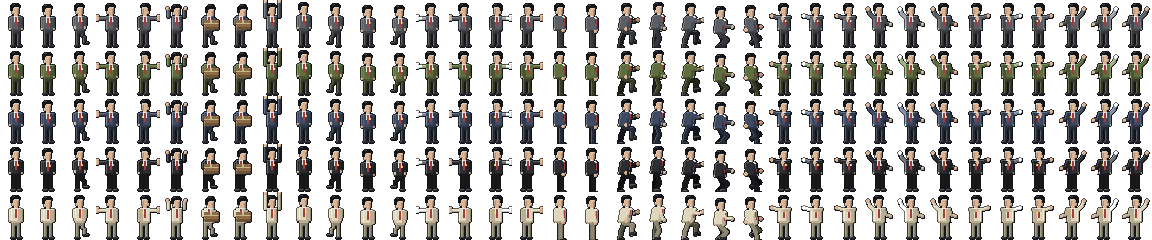
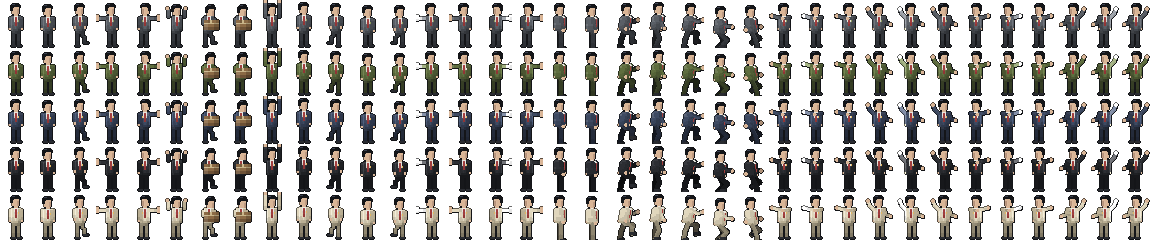
Unity 판: 테두리 대신 덩어리 명암, 의자는 두 칸씩 튀며 곧게 굴러 내려오고 앞에 칸이 없으면 계단 밖으로 떨어짐 (웹과 같게)
- 확인: EditMode 14개 통과, 플레이테스트 스크린샷 43장 오류 0, 실행 파일·zip 다시 만듦

diff --git a/WebReference/game.js b/WebReference/game.js
@@ -1599,20 +1599,31 @@ function drawChair(x, y, rot) {   // 사무실 의자: 남색 등받이·앉는 
   rect(-1, 0, 2, 4, '#9AA0A8'); rect(-5, 4, 10, 1, '#2A2C31'); rect(-5, 5, 2, 2, '#1E1F22'); rect(3, 5, 2, 2, '#1E1F22');
   ctx.restore();
 }
-function drawRollingChair(p, px) {   // 굴러오는 의자: 위 계단 칸들을 따라 한 칸씩 통통 튀며 굴러 내려온다 (칸 윗면 위).
-  // 넘어가는 의자는 바로 윗칸에서 크게 튀어 내 머리 위를 넘어 뒤쪽으로, 계단 아래로 계속 굴러 떨어진다
+function drawRollingChair(p, px) {   // 굴러오는 의자: 방향을 바꾸지 않고 지금 계단 줄을 따라 곧게 두 칸씩 튀며 굴러 내려온다.
+  // 위쪽에 이어진 칸이 짧으면 그 위 층참에서 날아 떨어져 들어오고, 넘어가는 의자는 머리 위를 넘어 같은 방향으로 가다가 앞에 칸이 없으면 계단 밖으로 떨어진다
   const r = run, s = p.side;
   if (r.time < p.spawnT) return;
   const u = clamp((r.time - p.spawnT) / Math.max(0.01, p.impactT - p.spawnT), 0, 1);
-  const onTile = function (fi) { const i = Math.floor(fi), f = fi - i; return [160 + (lerp(stairX(i), stairX(i + 1), f) - r.camX), PLAYER_Y + (-fi * CONFIG.stepH - r.camY) - 7]; };   // 바퀴가 칸 윗면에 닿는 자리
+  const dx = Math.abs(stairX(r.steps + 1) - stairX(r.steps)) || CONFIG.stepW;
+  const line = function (j) { return [160 + (stairX(r.steps) + s * j * dx - r.camX), PLAYER_Y + (-(r.steps + j) * CONFIG.stepH - r.camY) - 7]; };   // 내 칸에서 j칸 위(음수면 아래) 같은 줄, 바퀴가 칸 윗면에 닿는 자리
+  let up = 0; while (up < 5 && dirAt(r.steps + up) === s) up++;            // 위로 같은 방향으로 이어진 칸 수
+  let down = 0; while (down < 8 && r.steps - 1 - down >= 0 && dirAt(r.steps - 1 - down) === s) down++;   // 아래로 이어진 칸 수
+  const roll = function (j, j0) {                                          // 칸 위면 두 칸씩 튀고, 칸이 없는 높이(층참 위)에서는 날아 떨어진다
+    const q = line(j);
+    if (j > up) return [q[0], q[1] - (j - up) * 7];
+    const g = (j0 - j) / 2; return [q[0], q[1] - Math.sin((g - Math.floor(g)) * Math.PI) * 9];
+  };
   let x, y;
   if (p.over && (u > 0.8 || p.passed)) {
-    const a0 = onTile(r.steps + 1.2), bx = px - s * 28, by = PLAYER_Y + 4;                // 바로 윗칸에서 내 머리 위를 넘어 뒤쪽으로
-    if (r.time < p.impactT) { const v = (u - 0.8) / 0.2; x = lerp(a0[0], bx, v); y = lerp(a0[1], by, v) - Math.sin(v * Math.PI) * 38; }
-    else { const e = r.time - p.impactT; x = bx - s * 60 * e; y = by + 25 * e + 140 * e * e; }   // 계단 아래로 계속 굴러 떨어진다
+    const a0 = roll(1.2, 5), b0 = line(-2);
+    if (r.time < p.impactT) { const v = (u - 0.8) / 0.2; x = lerp(a0[0], b0[0], v); y = lerp(a0[1], b0[1], v) - Math.sin(v * Math.PI) * 38; }   // 머리 위를 넘는다
+    else {
+      const e = r.time - p.impactT, j = -2 - e * 6;
+      if (-j <= down) { const g = (-2 - j) / 2, q = line(j); x = q[0]; y = q[1] - Math.sin((g - Math.floor(g)) * Math.PI) * 9; }   // 아래 칸들을 같은 방향으로
+      else { const edge = -Math.max(2, down), te = e - Math.max(0, (Math.max(2, down) - 2) / 6), q = line(edge); x = q[0] - s * dx * 6 * te; y = q[1] - 6 * te + 300 * te * te; }   // 앞에 칸이 없다: 계단 밖으로 떨어진다
+    }
   } else {
-    const fi = lerp(r.steps + 5, p.over ? r.steps + 1.2 : r.steps + 0.35, p.over ? u / 0.8 : u), q = onTile(fi);
-    x = q[0]; y = q[1] - Math.abs(Math.sin((fi - Math.floor(fi)) * Math.PI)) * 5;          // 칸 모서리마다 튄다
+    const j = lerp(5, p.over ? 1.2 : 0.35, p.over ? u / 0.8 : u), q = roll(j, 5); x = q[0]; y = q[1];
   }
   drawChair(x, y, -s * (r.time - p.spawnT) * 9);
   if (r.time >= p.spawnT && showMarks() && !p.passed) {

diff --git a/Tools~/upgrade16.py b/Tools~/upgrade16.py
@@ -1,5 +1,5 @@
 """16비트 느낌으로 다듬기: 스프라이트 시트의 프레임마다 (빛은 왼쪽 위에서)
-- 밝은 쪽 가장자리 하이라이트, 어두운 쪽 가장자리 그림자 (두께 2픽셀 이상인 곳만, 눈·넥타이 같은 작은 것은 그대로)
+- 덩어리 명암: 같은 색 가로줄마다 밝은 띠·기본·그림자·깊은 그림자 (원통처럼), 세로로 긴 덩어리는 아래쪽 그늘. 작은 것(3픽셀 미만)은 그대로
 - 셀아웃: 밝은 쪽 외곽선을 검정 대신 옆 색의 어두운 색으로
 - 머리카락 윤기
 사용: python upgrade16.py <원본 assets> <출력 assets> [sprite id ...]  (원본은 고치지 않는다 — 두 번 걸리지 않게)"""
@@ -10,43 +10,77 @@ src, dst = sys.argv[1], sys.argv[2]
 ids = sys.argv[3:] or ['player', 'rival', 'staff', 'commuter', 'projectiles', 'sticky', 'props', 'stairs']
 d = json.load(open(f"{src}/sprite_definition.json", encoding='utf-8'))
 
-def cell16(f):
+SKINS = {(0xd9, 0xb5, 0x96), (0xb8, 0x93, 0x7a)}
+def tone(c, k):   # k > 1: 흰색 쪽으로 밝게, k < 1: 어둡게
+    c = c.astype(float)
+    return c + (255 - c) * (k - 1) if k > 1 else c * k
+def cell16(f, per_color=True, amp=1.0):
+    """덩어리 명암 (빛은 왼쪽 위): 같은 색이 가로로 이어진 줄(소매·다리·몸통·얼굴)마다 왼쪽→오른쪽으로
+    밝은 띠 · 기본 · 그림자 · 깊은 그림자, 세로로 긴 덩어리는 아래쪽을 조금 어둡게. 외곽선을 더 긋지 않는다."""
     a = f.astype(int); op = a[..., 3] > 0; lum = a[..., :3].sum(-1)
     dark = op & (lum < 90); fill = op & ~dark
-    H, W = op.shape; out = f.copy()
+    H, W = op.shape; out = f.copy(); rgb = a[..., :3].astype(float)
+    # 사람은 같은 색 덩어리(소매·다리·몸통)마다, 물건은 전체 모양 하나로 (서류 글줄 같은 작은 무늬에 줄무늬가 생기지 않게)
+    key = [[(tuple(a[y, x, :3]) if per_color else 1) if fill[y, x] else None for x in range(W)] for y in range(H)]
+    kx = np.ones((H, W)); ky = np.ones((H, W))
+    horiz = amp > 0.5                                    # 계단 칸은 가로 그러데이션 없이 (이어 붙인 칸 사이가 이음매처럼 보이지 않게)
+    for y in range(H if horiz else 0):                   # 가로 줄: 원통처럼 (넓은 덩어리 3단, 다리 같은 중간 덩어리 2단, 6픽셀 미만은 그대로)
+        x = 0
+        while x < W:
+            if key[y][x] is None: x += 1; continue
+            x0 = x
+            while x < W and key[y][x] == key[y][x0]: x += 1
+            n = x - x0; c = key[y][x0]
+            if c in SKINS:                               # 얼굴·손: 왼쪽 한 칸만 밝게 (원래 얼굴 그늘은 그대로)
+                kx[y, x0] = 1.08; continue
+            if n < 6: continue
+            for xx in range(x0, x):
+                t = (xx - x0 + 0.5) / n
+                if not per_color or n < 10: kx[y, xx] = 1.0 if t < 0.6 else 0.86
+                else: kx[y, xx] = 1.12 if t < 0.25 else 1.0 if t < 0.7 else 0.82
+    for x in range(W):                                   # 세로 줄: 위는 조금 밝게, 아래쪽 그늘
+        y = 0
+        while y < H:
+            if key[y][x] is None: y += 1; continue
+            y0 = y
+            while y < H and key[y][x] == key[y0][x]: y += 1
+            n = y - y0
+            if n < 5 or key[y0][x] in SKINS: continue
+            for yy in range(y0, y):
+                tv = (yy - y0 + 0.5) / n
+                ky[yy, x] = 1.06 if tv < 0.15 else 1.0 if tv < 0.72 else 0.9
+    for y in range(H):
+        for x in range(W):
+            if not fill[y, x]: continue
+            k = kx[y, x] * ky[y, x]
+            l = rgb[y, x].mean()
+            if l > 200 or l < 70: k = min(max(k, 0.9), 1.06)   # 아주 밝은 색(크림 셔츠)·아주 어두운 색(남색)은 얕게
+            rgb[y, x] = tone(rgb[y, x], k)
+    # 셀아웃: 왼쪽 위(빛 쪽) 외곽선만 옆 색의 어두운 색으로, 그늘 쪽 외곽선은 그대로
     def nb(m, dy, dx):
         r = np.zeros_like(m)
         ys, ye = max(0, -dy), H - max(0, dy); xs, xe = max(0, -dx), W - max(0, dx)
         r[ys:ye, xs:xe] = m[ys + dy:ye + dy, xs + dx:xe + dx]; return r
-    up, lf, dn, rt = nb(fill, -1, 0), nb(fill, 0, -1), nb(fill, 1, 0), nb(fill, 0, 1)
-    lit = fill & (~up | ~lf) & dn & rt                     # 왼쪽 위 가장자리 (안쪽은 두께가 있다)
-    shd = fill & (~dn | ~rt) & up & lf                     # 오른쪽 아래 가장자리
-    rgb = a[..., :3].astype(float)
-    rgb[lit] = rgb[lit] + (255 - rgb[lit]) * 0.22
-    rgb[shd] = rgb[shd] * 0.78
-    shd2 = fill & ~lit & ~shd & (nb(shd, 0, -1) | nb(shd, -1, 0)) & up & lf   # 그림자 한 칸 안쪽: 중간 톤 (두 단계 명암)
-    rgb[shd2] = rgb[shd2] * 0.9
-    # 셀아웃: 왼쪽 위가 비어 있고 오른쪽/아래가 칠해진 외곽선은 그 색의 어두운 색으로
-    empty = ~op; eu, el = nb(empty, -1, 0), nb(empty, 0, -1)
-    sel = dark & (eu | el) & (dn | rt)
-    nbcol = np.where(dn[..., None], np.roll(a[..., :3], -1, axis=0), np.roll(a[..., :3], -1, axis=1)).astype(float)
-    hair = dark & (lum < 90)
+    empty = ~op; dn, rt = nb(fill, 1, 0), nb(fill, 0, 1)
+    sel = dark & (nb(empty, -1, 0) | nb(empty, 0, -1)) & (dn | rt)
+    nbcol = np.where(dn[..., None], np.roll(rgb, -1, axis=0), np.roll(rgb, -1, axis=1))
     rgb[sel] = np.maximum(nbcol[sel] * 0.42, rgb[sel])
-    # 머리카락 윤기: 어두운 덩어리 안쪽에서 바로 위 두 칸 안에 빈칸이 있는 곳
+    # 머리카락 윤기: 맨 윗줄 왼쪽 세 칸만
     du, dd, dl, dr = nb(dark, -1, 0), nb(dark, 1, 0), nb(dark, 0, -1), nb(dark, 0, 1)
     inner = dark & du & dd & dl & dr & nb(empty, -2, 0)
     ys, xs = np.nonzero(inner)
-    if len(ys):   # 머리 전체에 줄이 생기지 않게: 맨 윗줄의 왼쪽 세 칸만 (짧은 윤기)
-        top = ys.min(); row = sorted(xs[ys == top])[:3]
-        for x in row: rgb[top, x] = [0x3b, 0x41, 0x50]
+    if len(ys):
+        top = ys.min()
+        for x in sorted(xs[ys == top])[:3]: rgb[top, x] = [0x3b, 0x41, 0x50]
     out[..., :3] = np.clip(rgb, 0, 255).astype(np.uint8)
     return out
 
+PEOPLE = {'player', 'rival', 'staff', 'commuter'}
 for sid in ids:
     sp = d['sprites'].get(sid)
     if not sp: print('skip', sid); continue
     img = np.array(Image.open(f"{src}/{sp['file']}").convert('RGBA')); fw, fh = sp['frame_w'], sp['frame_h']
     for y in range(0, img.shape[0] - fh + 1, fh):
         for x in range(0, img.shape[1] - fw + 1, fw):
-            img[y:y + fh, x:x + fw] = cell16(img[y:y + fh, x:x + fw])
+            img[y:y + fh, x:x + fw] = cell16(img[y:y + fh, x:x + fw], sid in PEOPLE, 0.4 if sid == 'stairs' else 1.0)   # 계단 칸: 가로 그러데이션 없이 위·아래만
     Image.fromarray(img).save(f"{dst}/{sp['file']}"); print('16bit', sid, img.shape[1] // fw, 'x', img.shape[0] // fh)

diff --git a/Assets/Scripts/Game/GameController.cs b/Assets/Scripts/Game/GameController.cs
@@ -1043,22 +1043,34 @@ namespace Stairs.Game
             if (!wk && Math.Floor(time * 8) % 2 == 0) { Rect(wx - 5, y - 7, 10, 14, PalRed); Txt("!", wx, y, T(10, "center", "middle", true, shadow: false)); }
         }
         void DrawRollingChair(Threat p, double ppx)
-        {   // 굴러오는 의자: 위 계단 칸들을 따라 한 칸씩 통통 튀며 굴러 내려온다 (칸 윗면 위). 넘어가는 의자는 바로 윗칸에서 크게 튀어 머리 위로 넘어가 아래 칸들로 계속 굴러 떨어진다 (웹 drawRollingChair)
+        {   // 굴러오는 의자: 방향을 바꾸지 않고 지금 계단 줄을 따라 곧게 두 칸씩 튀며 굴러 내려온다 (웹 drawRollingChair).
+            // 위쪽에 이어진 칸이 짧으면 그 위 층참에서 날아 떨어져 들어오고, 넘어가는 의자는 머리 위를 넘어 같은 방향으로 가다가 앞에 칸이 없으면 계단 밖으로 떨어진다
             var r = run; int s = p.side;
             if (r.time < p.spawnT) return;
-            double u = Clamp((r.time - p.spawnT) / Math.Max(0.01, p.impactT - p.spawnT), 0, 1), x, y;
-            Func<double, (double, double)> onTile = q => { int i = (int)Math.Floor(q); double f = q - i; return (160 + (Lerp(r.Stairs.StairX(i), r.Stairs.StairX(i + 1), f) - r.camX), PLAYER_Y + (-q * D(C.stepH) - r.camY) - 7); };   // 바퀴가 칸 윗면에 닿는 자리
+            double u = Clamp((r.time - p.spawnT) / Math.Max(0.01, p.impactT - p.spawnT), 0, 1);
+            double dx = Math.Abs(r.Stairs.StairX(r.steps + 1) - r.Stairs.StairX(r.steps)); if (dx == 0) dx = D(C.stepW);
+            Func<double, (double x, double y)> line = j => (160 + (r.Stairs.StairX(r.steps) + s * j * dx - r.camX), PLAYER_Y + (-(r.steps + j) * D(C.stepH) - r.camY) - 7);
+            int up = 0; while (up < 5 && r.Stairs.DirAt(r.steps + up) == s) up++;
+            int down = 0; while (down < 8 && r.steps - 1 - down >= 0 && r.Stairs.DirAt(r.steps - 1 - down) == s) down++;
+            Func<double, double, (double x, double y)> roll = (j, j0) =>
+            {   // 칸 위면 두 칸씩 튀고, 칸이 없는 높이(층참 위)에서는 날아 떨어진다
+                var q = line(j);
+                if (j > up) return (q.x, q.y - (j - up) * 7);
+                double g = (j0 - j) / 2; return (q.x, q.y - Math.Sin((g - Math.Floor(g)) * Math.PI) * 9);
+            };
+            double x, y;
             if (p.over && (u > 0.8 || p.passed))
             {
-                var a0 = onTile(r.steps + 1.2); double bx = ppx - s * 28, by = PLAYER_Y + 4;   // 바로 윗칸에서 내 머리 위를 넘어 뒤쪽으로
-                if (r.time < p.impactT) { double v = (u - 0.8) / 0.2; x = Lerp(a0.Item1, bx, v); y = Lerp(a0.Item2, by, v) - Math.Sin(v * Math.PI) * 38; }
-                else { double e = r.time - p.impactT; x = bx - s * 60 * e; y = by + 25 * e + 140 * e * e; }   // 계단 아래로 계속 굴러 떨어진다
+                var a0 = roll(1.2, 5); var b0 = line(-2);
+                if (r.time < p.impactT) { double v = (u - 0.8) / 0.2; x = Lerp(a0.x, b0.x, v); y = Lerp(a0.y, b0.y, v) - Math.Sin(v * Math.PI) * 38; }   // 머리 위를 넘는다
+                else
+                {
+                    double e = r.time - p.impactT, j = -2 - e * 6;
+                    if (-j <= down) { double g = (-2 - j) / 2; var q = line(j); x = q.x; y = q.y - Math.Sin((g - Math.Floor(g)) * Math.PI) * 9; }   // 아래 칸들을 같은 방향으로
+                    else { int edge = Math.Max(2, down); double te = e - Math.Max(0, (edge - 2) / 6.0); var q = line(-edge); x = q.x - s * dx * 6 * te; y = q.y - 6 * te + 300 * te * te; }   // 앞에 칸이 없다: 계단 밖으로 떨어진다
+                }
             }
-            else
-            {
-                double fi = Lerp(r.steps + 5, p.over ? r.steps + 1.2 : r.steps + 0.35, p.over ? u / 0.8 : u); var q = onTile(fi);
-                x = q.Item1; y = q.Item2 - Math.Abs(Math.Sin((fi - Math.Floor(fi)) * Math.PI)) * 5;   // 칸 모서리마다 튄다
-            }
+            else { double j = Lerp(5, p.over ? 1.2 : 0.35, p.over ? u / 0.8 : u); var q = roll(j, 5); x = q.x; y = q.y; }
             DrawChair(x, y, -s * (r.time - p.spawnT) * 9);
             if (ShowMarks() && !p.passed) DrawWarnMark(x, y - 20, p);
         }

diff --git a/docs/UNITY_PORT.md b/docs/UNITY_PORT.md
@@ -214,8 +214,8 @@ uGUI로 비슷하게 그리던 화면을 버리고, 웹 `game.js`의 그리기·
 
 - 로비: 의자에 앉아 타자 치는 사원, 서류함 옆에서 전화하는 사원, 화분 옆에서 커피 마시는 사원, 바닥을 오가는 사원 (`DrawLobbyStaff`, staff.png, 난수 없이 시간으로).
 - 계단 아래 끝의 장식 경쟁 사원은 서 있기(idle).
-- 의자는 실제 계단 칸 윗면을 따라 칸마다 튀며 굴러 내려온다. 넘어가는 의자는 바로 윗칸에서 머리 위를 넘어 뒤쪽 계단 아래로 떨어진다.
-- 스프라이트 만들기: `Tools~/sprite_src`(원본) → `puppet.py`(옆모습·막기·로비 사원 프레임) → `upgrade16.py`(16비트: 하이라이트, 두 단계 그림자, 셀아웃, 머리카락 윤기) → WebReference/assets.
+- 의자는 방향을 바꾸지 않고 지금 계단 줄을 따라 두 칸씩 튀며 굴러 내려온다 (위 칸이 짧으면 층참에서 날아 떨어져 들어옴). 넘어가는 의자는 머리 위를 넘어 같은 방향으로 가다가 앞에 칸이 없으면 계단 밖으로 떨어진다.
+- 스프라이트 만들기: `Tools~/sprite_src`(원본) → `puppet.py`(옆모습·막기·로비 사원 프레임) → `upgrade16.py`(16비트 덩어리 명암: 같은 색 덩어리마다 왼쪽에서 빛을 받은 원통처럼 2~3단, 아래쪽 그늘, 얼굴은 원래 그늘 유지, 계단은 위·아래만, 셀아웃, 머리카락 윤기) → WebReference/assets.
   경쟁 사원 머리는 실제 머리 범위로 잘라 붙이고, 옆모습 넥타이는 앞 가장자리 안쪽의 좁은 띠로 다시 그린다.
 - QA: `Tools~/anim_qa.py`(빈 프레임·조각남·발 기준선·흔들림·몸을 가르는 외곽선; 16비트 전 프레임에서 0건)와 Designer QA 에이전트 육안 검토(통과).
 - 자동 플레이테스트는 창에 눌린 키·마우스를 무시한다 (`ignoreInput`).
